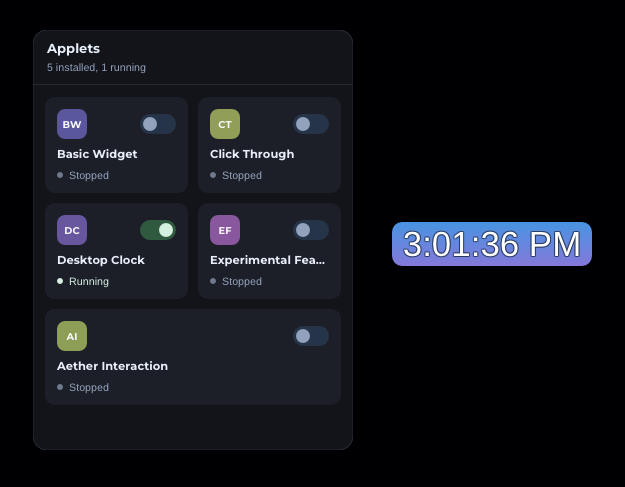
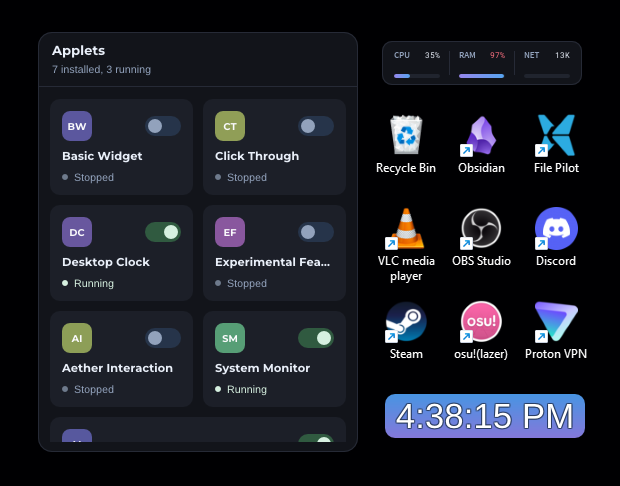
docs: update screenshot of desktop applets

diff --git a/README.md b/README.md
@@ -14,10 +14,10 @@
 
 <br />
 
-![Dew Applets Quick Panel and running Desktop Clock widget](assets/showcase.png)
+![Dew Applets Quick Panel, running Desktop Clock widget, and System Monitor HUD](assets/showcase.png)
 
 <br />
-<sub>Dew's quick panel managing installed applets alongside a running desktop clock widget</sub>
+<sub>Dew's quick panel managing installed applets alongside running desktop widgets</sub>
 
 </div>
 
@@ -141,7 +141,7 @@ flowchart LR
 | [`crates/raster`](crates/raster) | Translates display lists to pixels. CPU rasterization by default, GPU acceleration via feature flag |
 | [`crates/window`](crates/window) | Native window management, swapchains, system tray, and input events on Windows |
 
-## Highlights
+### Highlights
 
 - **Deny-by-default sandbox.** Every applet runs in its own isolated Luau VM with no raw `io`, `os`, or FFI access. An applet can only reach capabilities explicitly granted in its manifest (e.g. storage, notifications, clipboard). The host injects each capability as a function, keeping security boundaries strictly auditable and testable in Rust.
 - **Engine-independent DataModel in Rust.** The class hierarchy, properties, and defaults are driven by an engine reflection database, allowing the host to statically reject properties that do not exist on a class before values reach the layout pipeline. It covers 139 of 139 in-scope GUI properties.
